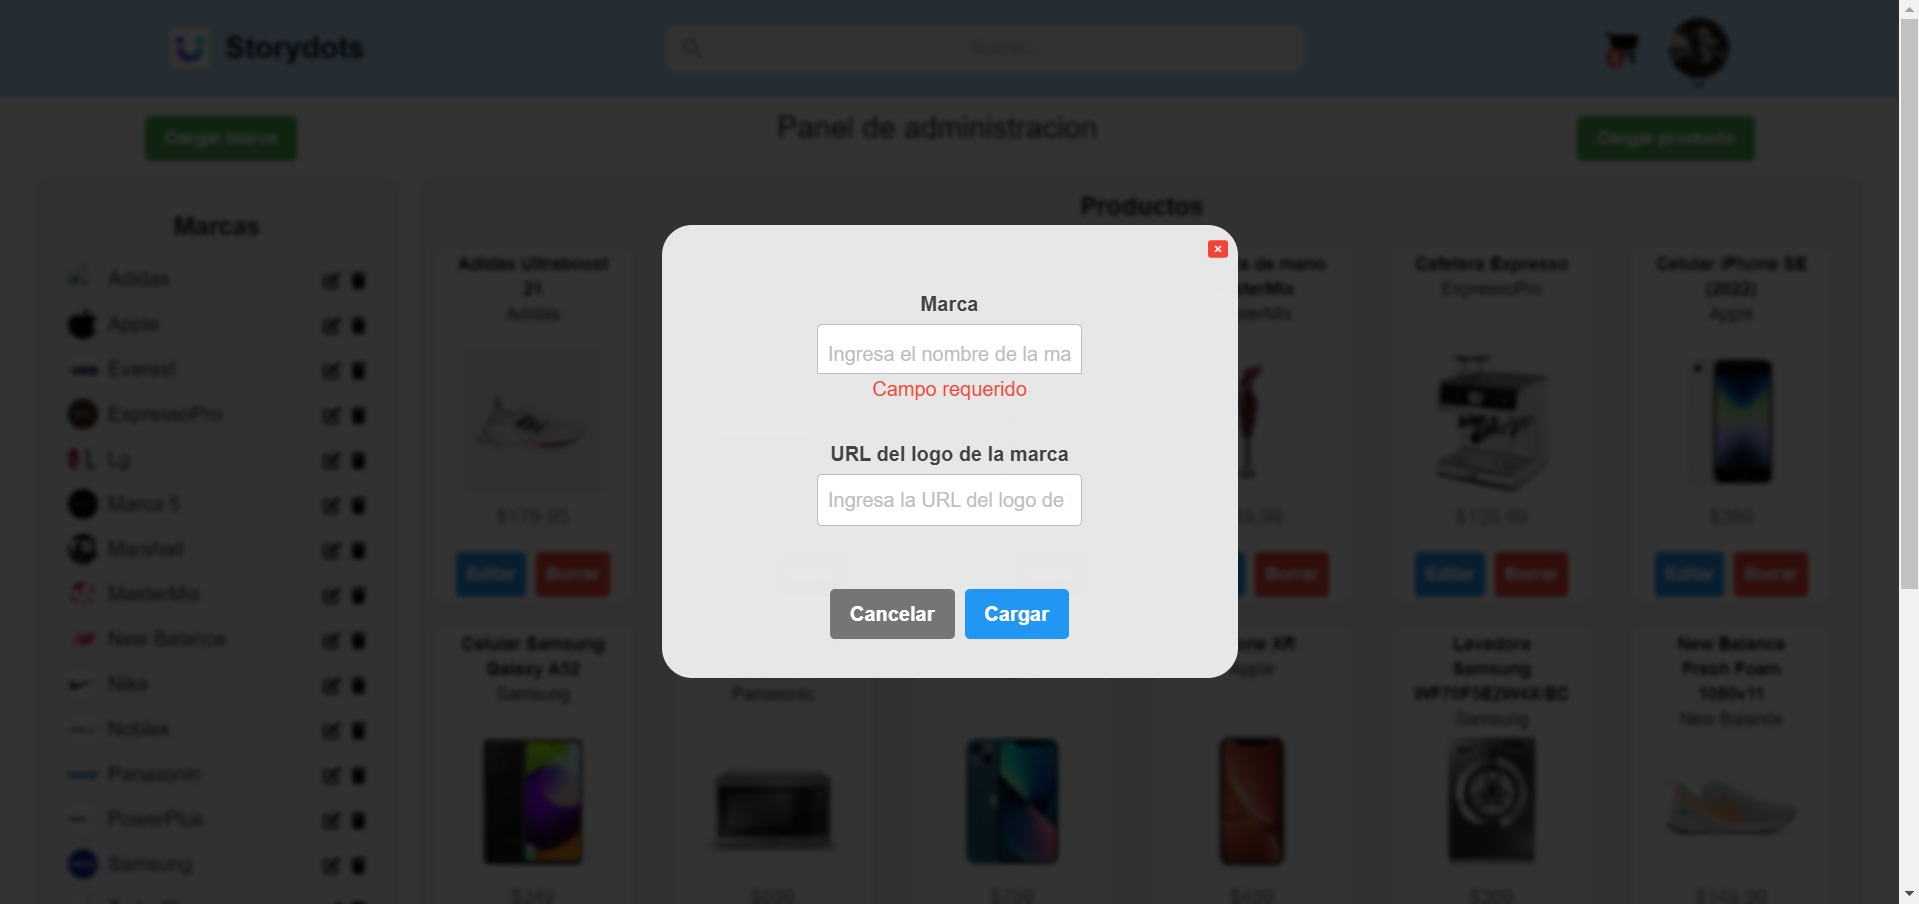
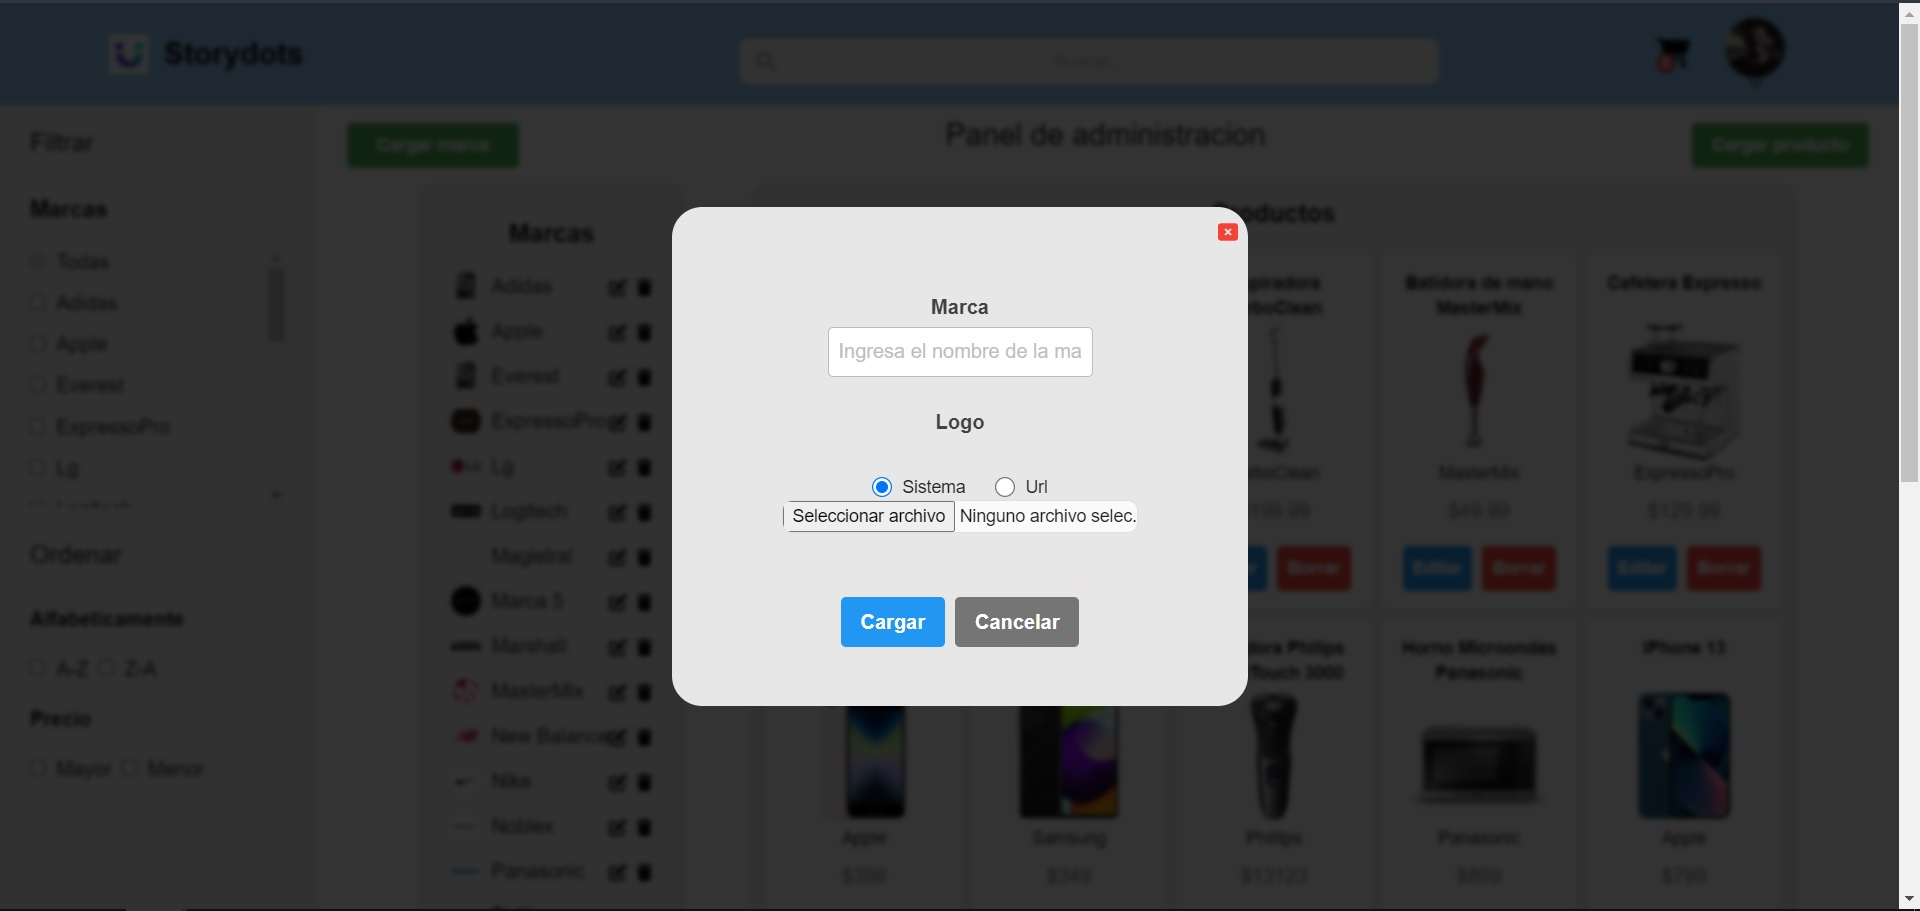
bug form styles

diff --git a/client/src/pages/Admin/components/brands/FormBrands.jsx b/client/src/pages/Admin/components/brands/FormBrands.jsx
@@ -21,12 +21,12 @@ export default function FormBrands({
 
   const handleInputChange = (event) => {
     const { name, value } = event.target;
-
     if (value !== "")
       setError({
         ...error,
         [name]: "",
       });
+
     setBrandData({
       ...brandData,
       [name]:
@@ -71,7 +71,7 @@ export default function FormBrands({
 
   return (
     <div
-      className="rounded-3xl fixed md:inset-0 inset-1 bg-white/90 backdrop-blur-xs h-[70vh] md:w-[30vw] overflow-x-hidden overflow-y-auto m-auto"
+      className="rounded-3xl fixed md:inset-0 inset-1 bg-white/90 backdrop-blur-xs h-[60%] md:w-[32vw] overflow-x-hidden overflow-y-auto m-auto"
       onClick={(e) => e.stopPropagation()}
     >
       <div className="relative float-right p-2 text-red-500 z-50">
@@ -99,7 +99,7 @@ export default function FormBrands({
             name="name"
             id="name"
             placeholder="Ingresa el nombre de la marca"
-            className={`h-10 w-ful  border border-gray-400 p-2 rounded ${
+            className={`h-10 border border-gray-400 p-2 rounded ${
               error.name ? "pb-0 mb-0 rounded-b-none" : ""
             }`}
             value={brandData.name}
@@ -116,12 +116,12 @@ export default function FormBrands({
         >
           Logo
         </label>
-        <div className="flex flex-row justify-center items-center gap-2 overflow-hidden h-20">
-          <div>
+        <div className="flex flex-row justify-center items-center gap-2 overflow-hidden h-20 md:h-32 w-full">
+          <div className="h-full">
             <ToggleUrlSystemImage
               data={brandData}
               setData={setBrandData}
-              handleInputChangue={handleInputChange}
+              handleInputChange={handleInputChange}
               error={error}
               setLoadingFile={setLoadingFile}
             />
@@ -134,11 +134,13 @@ export default function FormBrands({
           {!loadingFile ? (
             <>
               {brandData.logo_url && (
-                <img
-                  src={brandData.logo_url}
-                  alt={brandData.name}
-                  className="h-10 w-10 md:w-16 md:h-16 rounded-full object-contain"
-                />
+                <div className="absolute right-1">
+                  <img
+                    src={brandData.logo_url}
+                    alt={brandData.name}
+                    className="h-10 w-10 md:w-16 md:h-16 rounded-full object-contain float-right"
+                  />
+                </div>
               )}
             </>
           ) : (
@@ -146,7 +148,7 @@ export default function FormBrands({
           )}
         </div>
 
-        <div className="flex justify-end space-x-2">
+        <div className="flex justify-end space-x-2 p-2">
           <button
             type="submit"
             className="bg-blue-500 hover:bg-blue-700 text-white font-bold py-2 px-4 rounded"

diff --git a/client/src/pages/Admin/components/products/FormProduct.jsx b/client/src/pages/Admin/components/products/FormProduct.jsx
@@ -229,7 +229,7 @@ export default function FormProduct({
               )}
             </div>
 
-            <div className="h-20 flex flex-row justify-center items-center gap-4 relative overflow-hidden ">
+            <div className="h-32 flex flex-row justify-center items-center gap-4 relative overflow-hidden w-80">
               <div className="w-full">
                 <ToggleUrlSystemImage
                   data={productData}
@@ -248,11 +248,13 @@ export default function FormProduct({
               {!loadingFile ? (
                 <>
                   {productData.image_url && (
-                    <img
-                      src={productData.image_url}
-                      alt={productData.name}
-                      className="h-10 w-10 md:w-16 md:h-16 rounded-full object-contain"
-                    />
+                    <div className="absolute right-0">
+                      <img
+                        src={productData.image_url}
+                        alt={productData.name}
+                        className="h-10 w-10 md:w-16 md:h-16 rounded-full object-contain"
+                      />
+                    </div>
                   )}
                 </>
               ) : (

diff --git a/client/src/pages/Admin/components/ToggleUrlSystemImage.jsx b/client/src/pages/Admin/components/ToggleUrlSystemImage.jsx
@@ -4,7 +4,6 @@ export default function ToggleUrlSystemImage({
   setData,
   data,
   handleInputChange,
-  error,
   setLoadingFile,
 }) {
   const [fileUrlSistem, setFileUrlSistem] = useState(true);
